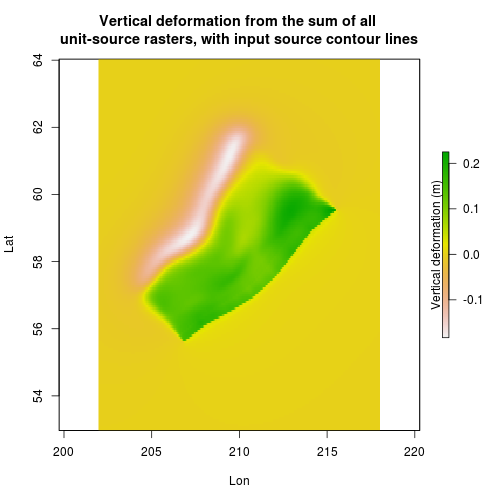
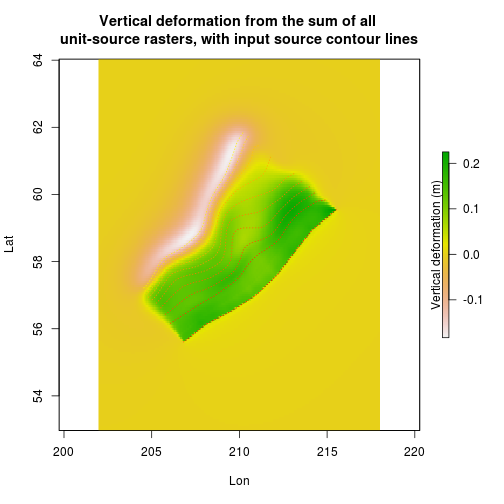
tutorial edits

diff --git a/R/examples/source_contours_2_unit_sources/tutorial.md b/R/examples/source_contours_2_unit_sources/tutorial.md
@@ -42,9 +42,9 @@ The unit sources will be arranged in a logically rectangular grid which covers
 the source contours. The number of unit-sources down-dip and along-strike is
 chosen based on the user-provided value for the desired unit-source length and
 width. The user can precisely control the location of the along-strike
-boundaries of the unit-sources by providing a 'downdip_lines' shapefile (see
-below). The down-dip boundaries between unit sources are always created by the
-code.
+boundaries of the unit-sources by providing a 'downdip-lines' shapefile (see
+`alaska_downdip` below). The down-dip boundaries between unit sources are
+always created by the code.
 
 # Example data
 
@@ -128,11 +128,11 @@ spplot(alaska, main='Alaska sourcezone contours giving the interface depth in km
 
 # Creation of downdip lines
 
-The downdip lines shapefile is used to define the along-strike boundaries of the
-unit sources. An initial downdip lines shapefile can be created with the script
-'[make_initial_downdip_lines.R](make_initial_downdip_lines.R)'. Similar code is pasted
-below to illustrate the process (although this takes advantage of the fact we already read
-the source contours). 
+The downdip lines shapefile is used to define the along-strike boundaries of
+the unit sources. An initial downdip lines shapefile can be created with the
+script '[make_initial_downdip_lines.R](make_initial_downdip_lines.R)'. Similar
+code is pasted below to illustrate the process (although this takes advantage
+of the fact we already read the source contours). 
 
 ```r
 # This file is created
@@ -151,10 +151,10 @@ ds1 = create_downdip_lines_on_source_contours_improved(
 
 # Convert to a SpatialLinesDataFrame (this is the data structure R uses for
 # line-shapefiles)
-downdip_lines = downdip_lines_to_SpatialLinesDataFrame(ds1)
+alaska_downdip = downdip_lines_to_SpatialLinesDataFrame(ds1)
 
 # Write to a shapefile
-writeOGR(downdip_lines, 
+writeOGR(alaska_downdip, 
     dsn=out_shapefile, 
     layer=gsub('.shp', '', basename(out_shapefile)),
     driver='ESRI Shapefile', overwrite=TRUE)
@@ -164,44 +164,28 @@ Here we plot the source contours and downdip lines, to illustrate how they
 relate to each other. 
 
 ```r
-plot(source_contours, col='black', asp=1, axes=TRUE)
-```
-
-```
-## Error in plot(source_contours, col = "black", asp = 1, axes = TRUE): object 'source_contours' not found
-```
-
-```r
-plot(downdip_lines, add=TRUE, col='red')
-```
-
-```
-## Error in plot.xy(xy.coords(x, y), type = type, ...): plot.new has not been called yet
-```
-
-```r
+plot(alaska, col='black', asp=1, axes=TRUE)
+plot(alaska_downdip, add=TRUE, col='red')
 legend('topleft', c('Source contours', 'Downdip Lines'), 
     lty=c(1,1), col=c('black', 'red'))
 ```
 
-```
-## Error in strwidth(legend, units = "user", cex = cex, font = text.font): plot.new has not been called yet
-```
+![plot of chunk unnamed-chunk-5](figure/unnamed-chunk-5-1.png)
 
-Note that if you are unhappy with the spacing or orthogonality of the
-`downdip_lines`, you can simply edit the corresponding shapefile (defined as
+Note that if you are unhappy with the spacing or orthogonality of the downdip-lines
+(`alaska_downdip`), you can simply edit the corresponding shapefile (defined as
 `out_shapefile` above) in GIS, before proceeding to make the unit-sources.
 Broadly speaking, we would like the downdip-lines to intersect the contours in
-a nearly-orthogonal way, while avoiding large 'kinks' in the downdip lines, and
-retaining a fairly even spacing of downdip lines.  These goals will lead to
+a nearly-orthogonal way, while avoiding large 'kinks' in the downdip-lines, and
+retaining a fairly even spacing of downdip-lines. These goals will lead to
 unit-sources that have a fairly standard looking Okada-type deformation, all of
 which are a similar size (which is desirable when distributing earthquakes over
 the source zone). Unfortunately the goals of 'orthogonality' and 'equal size'
 are also somewhat in contradiction with each other! While the code above (which
-creates the downdip lines) tries to find a good solution, it can fail either
+creates the downdip-lines) tries to find a good solution, it can fail either
 due to data input errors (i.e. user error), or simply because the algorithm is
 not well suited to the contours you provide. Therefore, user inspection of the
-downdip lines (and optional editing) are strongly encouraged.
+downdip-lines (and optional editing) are strongly encouraged.
 
 
 # Setting input parameters in produce_unit_sources.R
@@ -379,7 +363,7 @@ The above command would run the 10th shapefile from within CONTOURS (assuming
 alphabetical ordering). The main purpose of this option is to facilitate
 running each sourcezone separately in a HPC environment (since it is relatively
 easy to automatically submit many jobs with different integer arguments). Note
-that in this case, the filenames of the source contours and downdip lines must
+that in this case, the filenames of the source contours and downdip-lines must
 match, and no other files should be contained in their directories.
 
 In either case the working directory must be the directory containing
@@ -429,24 +413,16 @@ plot(r1, main=paste0('Vertical deformation from the sum of all \n',
         'unit-source rasters, with input source contour lines'), 
     xlab='Lon', ylab='Lat',
     legend.args=list(text='Vertical deformation (m)', side=2))
+# Add contours, with colour varying with depth
+plot(alaska, add=TRUE, lty='dotted', col=heat.colors(70)[alaska$level+1])
 ```
 
 ![plot of chunk unnamed-chunk-6](figure/unnamed-chunk-6-1.png)
 
-```r
-# Add contours, with colour varying with depth
-plot(source_contours, add=TRUE, lty='dotted', 
-    col=heat.colors(70)[source_contours$level+1])
-```
-
-```
-## Error in plot(source_contours, add = TRUE, lty = "dotted", col = heat.colors(70)[source_contours$level + : object 'source_contours' not found
-```
-
 
 # Tips
 
-* If you don't like the shape of the unit-sources, then try editing the downdip lines
+* If you don't like the shape of the unit-sources, then try editing the downdip-lines
 shapefile to make the unit-sources reasonably orthogonal and with reasonably consistent
 sizes. Smoothing of input contours may also be helpful in some instances.
 
